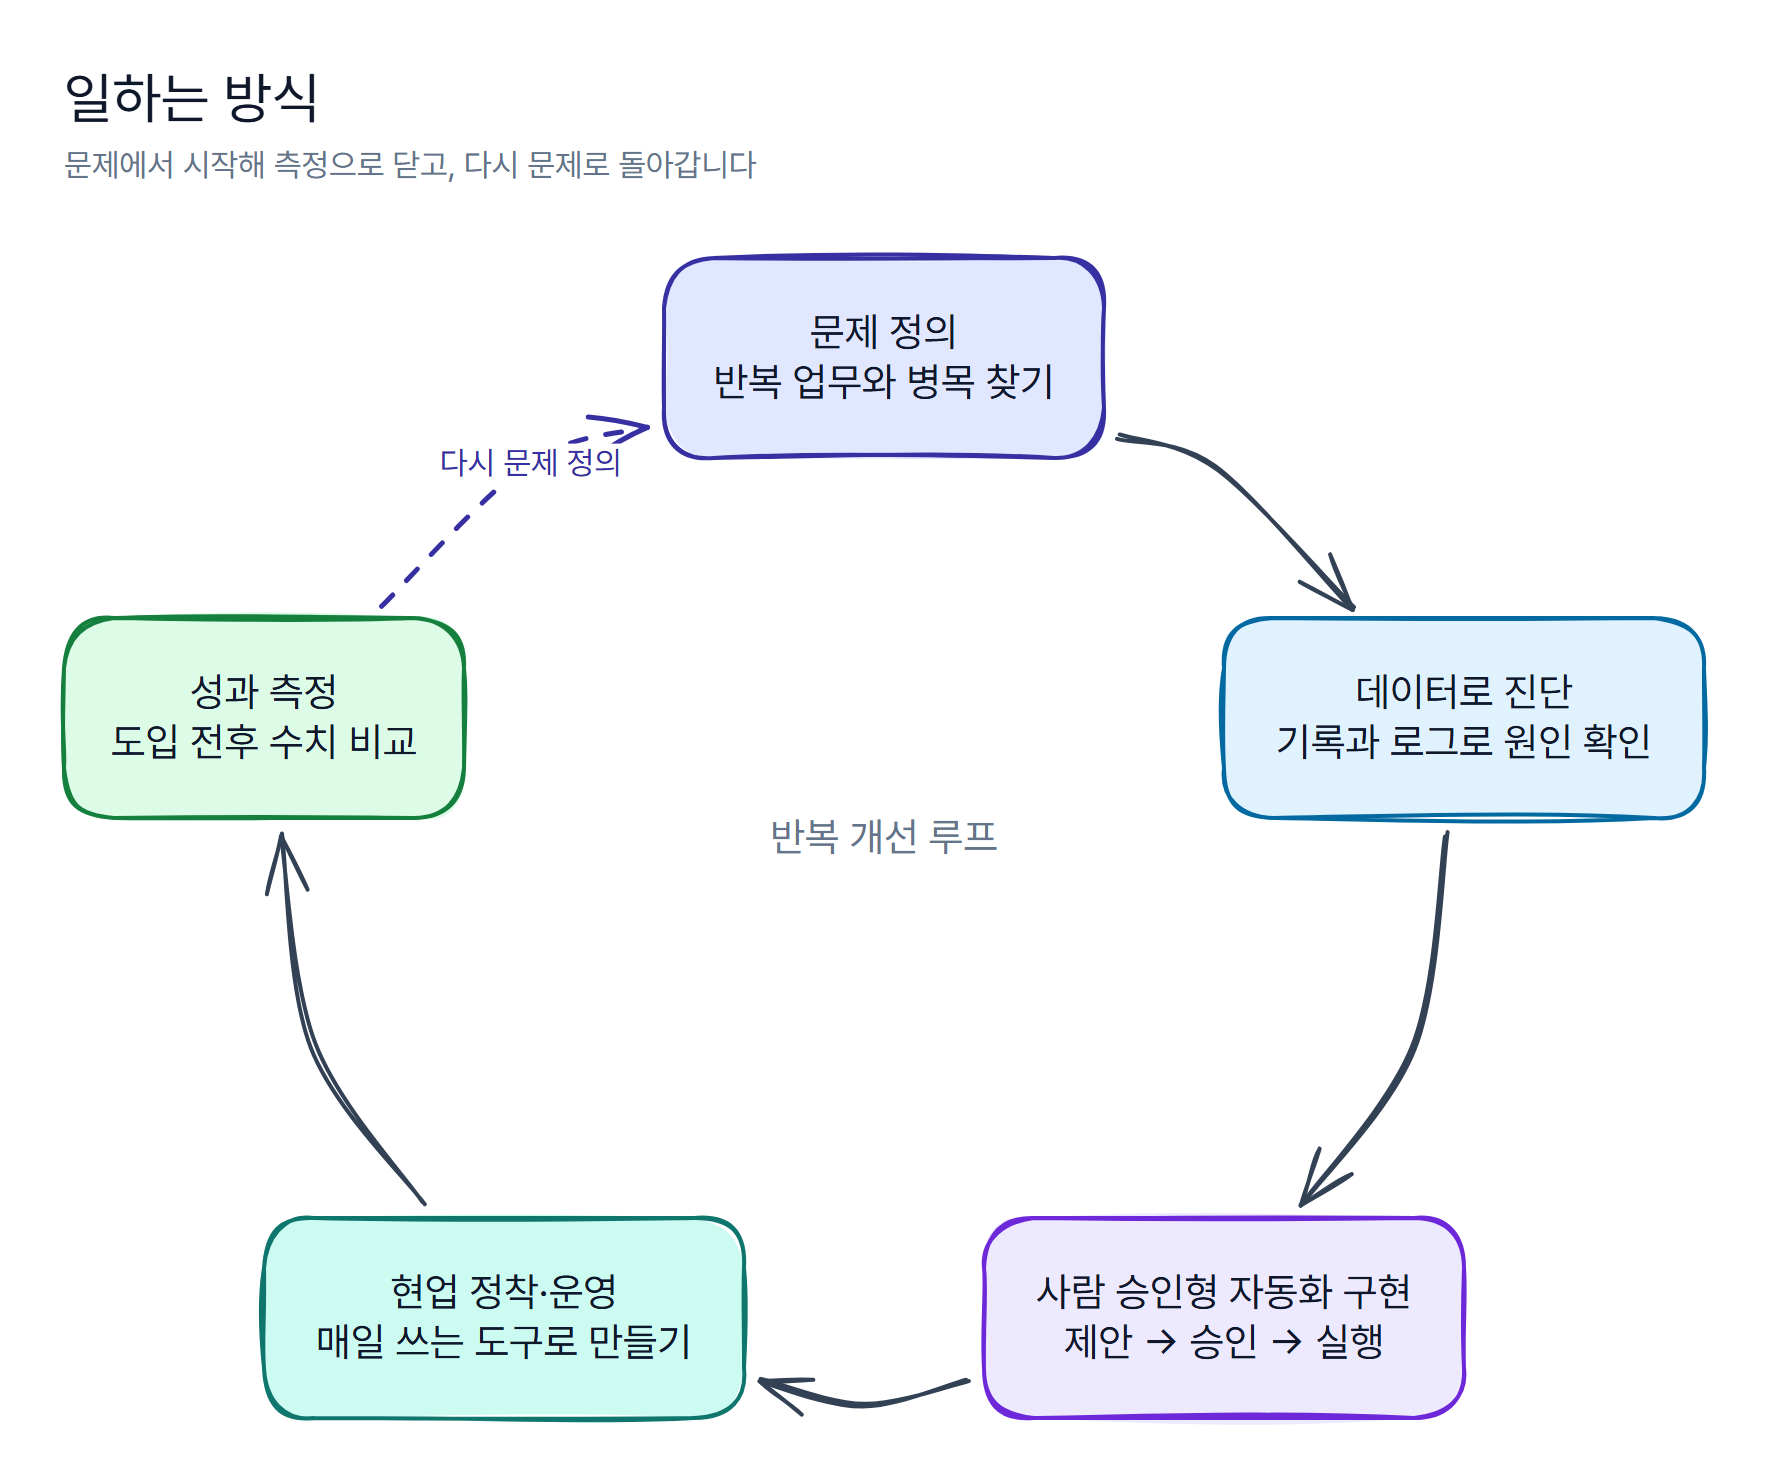
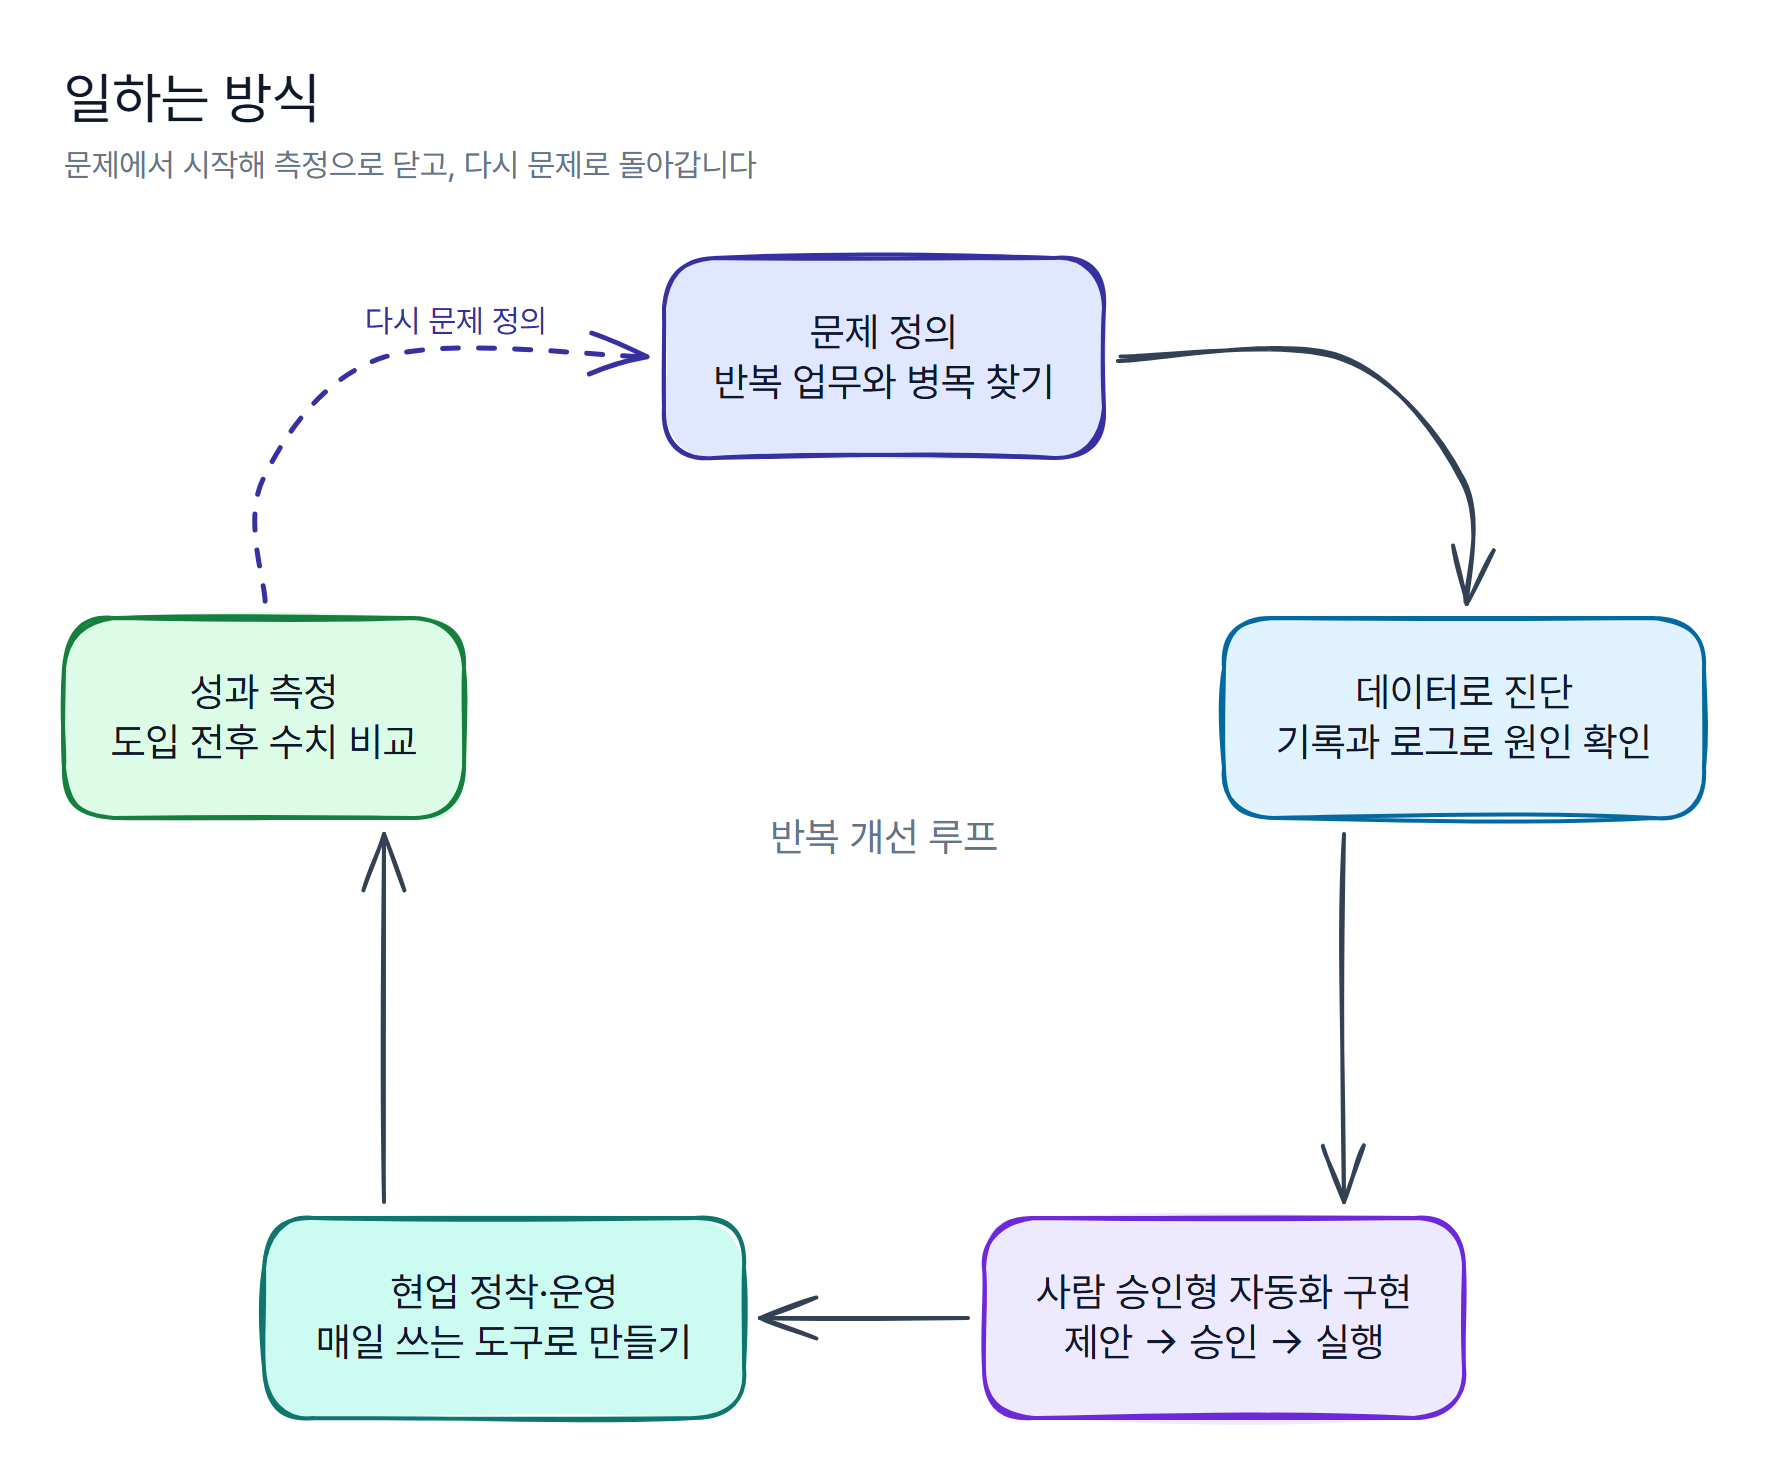
일하는 방식 도면 화살표 경로·라벨 배치 개선
- 순환 배치의 대각선 연결을 상자 변 가운데에서 나가는 둥근 꺾은선으로 변경
- 되돌아오는 화살표 라벨을 선과 겹치지 않게 도면 바깥쪽으로 이동

diff --git a/assets/diagrams/how-i-work.excalidraw.md b/assets/diagrams/how-i-work.excalidraw.md
@@ -223,10 +223,10 @@ tags: [excalidraw]
     {
       "id": "edge-define-diagnose-0",
       "type": "arrow",
-      "x": 527.59,
-      "y": 185.96,
-      "width": 117.34,
-      "height": 85.35,
+      "x": 528.0,
+      "y": 147.0,
+      "width": 172.0,
+      "height": 122.0,
       "angle": 0,
       "strokeColor": "#334155",
       "backgroundColor": "transparent",
@@ -254,12 +254,16 @@ tags: [excalidraw]
           0.0
         ],
         [
-          49.01,
-          16.24
+          111.0,
+          0.0
         ],
         [
-          117.34,
-          85.35
+          172.0,
+          61.0
+        ],
+        [
+          172.0,
+          122.0
         ]
       ],
       "lastCommittedPoint": null,
@@ -279,10 +283,10 @@ tags: [excalidraw]
     {
       "id": "edge-diagnose-build-1",
       "type": "arrow",
-      "x": 691.55,
-      "y": 384.92,
-      "width": 71.52,
-      "height": 185.55,
+      "x": 640.0,
+      "y": 385.0,
+      "width": 0.0,
+      "height": 184.0,
       "angle": 0,
       "strokeColor": "#334155",
       "backgroundColor": "transparent",
@@ -293,9 +297,7 @@ tags: [excalidraw]
       "opacity": 100,
       "groupIds": [],
       "frameId": null,
-      "roundness": {
-        "type": 2
-      },
+      "roundness": null,
       "seed": 156392333,
       "version": 1,
       "versionNonce": 1486310002,
@@ -310,12 +312,8 @@ tags: [excalidraw]
           0.0
         ],
         [
-          -15.55,
-          106.48
-        ],
-        [
-          -71.52,
-          185.55
+          0.0,
+          184.0
         ]
       ],
       "lastCommittedPoint": null,
@@ -335,10 +333,10 @@ tags: [excalidraw]
     {
       "id": "edge-build-adopt-2",
       "type": "arrow",
-      "x": 452.22,
-      "y": 657.67,
-      "width": 104.44,
-      "height": 12.53,
+      "x": 452.0,
+      "y": 627.0,
+      "width": 104.0,
+      "height": 0.0,
       "angle": 0,
       "strokeColor": "#334155",
       "backgroundColor": "transparent",
@@ -349,9 +347,7 @@ tags: [excalidraw]
       "opacity": 100,
       "groupIds": [],
       "frameId": null,
-      "roundness": {
-        "type": 2
-      },
+      "roundness": null,
       "seed": 1464851913,
       "version": 1,
       "versionNonce": 583681481,
@@ -366,11 +362,7 @@ tags: [excalidraw]
           0.0
         ],
         [
-          -52.22,
-          12.53
-        ],
-        [
-          -104.44,
+          -104.0,
           0.0
         ]
       ],
@@ -391,10 +383,10 @@ tags: [excalidraw]
     {
       "id": "edge-adopt-measure-3",
       "type": "arrow",
-      "x": 179.98,
-      "y": 570.47,
-      "width": 71.52,
-      "height": 185.55,
+      "x": 160.0,
+      "y": 569.0,
+      "width": 0.0,
+      "height": 184.0,
       "angle": 0,
       "strokeColor": "#334155",
       "backgroundColor": "transparent",
@@ -405,9 +397,7 @@ tags: [excalidraw]
       "opacity": 100,
       "groupIds": [],
       "frameId": null,
-      "roundness": {
-        "type": 2
-      },
+      "roundness": null,
       "seed": 1398078953,
       "version": 1,
       "versionNonce": 813530774,
@@ -422,12 +412,8 @@ tags: [excalidraw]
           0.0
         ],
         [
-          -55.98,
-          -79.07
-        ],
-        [
-          -71.52,
-          -185.55
+          0.0,
+          -184.0
         ]
       ],
       "lastCommittedPoint": null,
@@ -447,10 +433,10 @@ tags: [excalidraw]
     {
       "id": "edge-measure-define-4",
       "type": "arrow",
-      "x": 158.23,
-      "y": 271.48,
-      "width": 134.11,
-      "height": 89.3,
+      "x": 100.0,
+      "y": 269.0,
+      "width": 192.0,
+      "height": 122.0,
       "angle": 0,
       "strokeColor": "#3730a3",
       "backgroundColor": "transparent",
@@ -459,7 +445,9 @@ tags: [excalidraw]
       "strokeStyle": "dashed",
       "roughness": 1,
       "opacity": 100,
-      "groupIds": [],
+      "groupIds": [
+        "grp-edge-measure-define-4"
+      ],
       "frameId": null,
       "roundness": {
         "type": 2
@@ -468,12 +456,7 @@ tags: [excalidraw]
       "version": 1,
       "versionNonce": 278077576,
       "isDeleted": false,
-      "boundElements": [
-        {
-          "type": "text",
-          "id": "label-edge-measure-define-4"
-        }
-      ],
+      "boundElements": null,
       "updated": 1760000000000,
       "link": null,
       "locked": false,
@@ -483,12 +466,16 @@ tags: [excalidraw]
           0.0
         ],
         [
-          75.17,
-          -71.68
+          0.0,
+          -61.0
         ],
         [
-          134.11,
-          -89.3
+          61.0,
+          -122.0
+        ],
+        [
+          192.0,
+          -122.0
         ]
       ],
       "lastCommittedPoint": null,
@@ -508,8 +495,8 @@ tags: [excalidraw]
     {
       "id": "label-edge-measure-define-4",
       "type": "text",
-      "x": 187.4,
-      "y": 189.8,
+      "x": 150.0,
+      "y": 119.0,
       "width": 92.0,
       "height": 20.0,
       "angle": 0,
@@ -520,7 +507,9 @@ tags: [excalidraw]
       "strokeStyle": "solid",
       "roughness": 0,
       "opacity": 100,
-      "groupIds": [],
+      "groupIds": [
+        "grp-edge-measure-define-4"
+      ],
       "frameId": null,
       "roundness": null,
       "seed": 1530970497,
@@ -537,7 +526,7 @@ tags: [excalidraw]
       "textAlign": "center",
       "verticalAlign": "middle",
       "baseline": 13.12,
-      "containerId": "edge-measure-define-4",
+      "containerId": null,
       "originalText": "다시 문제 정의",
       "lineHeight": 1.25
     },
